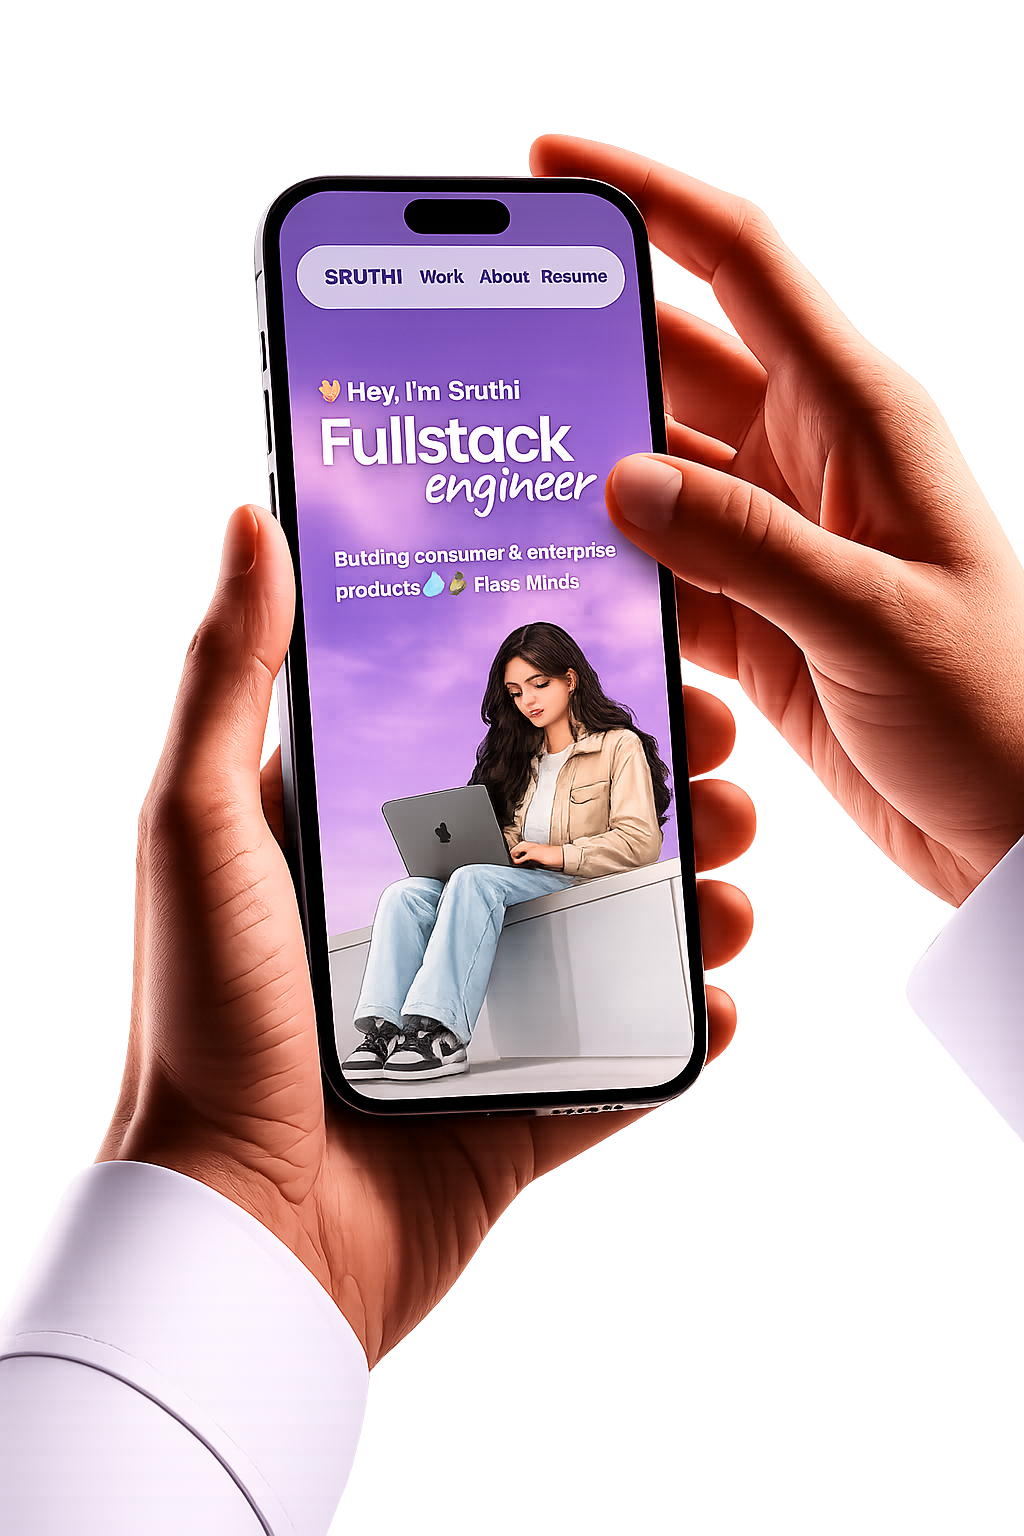
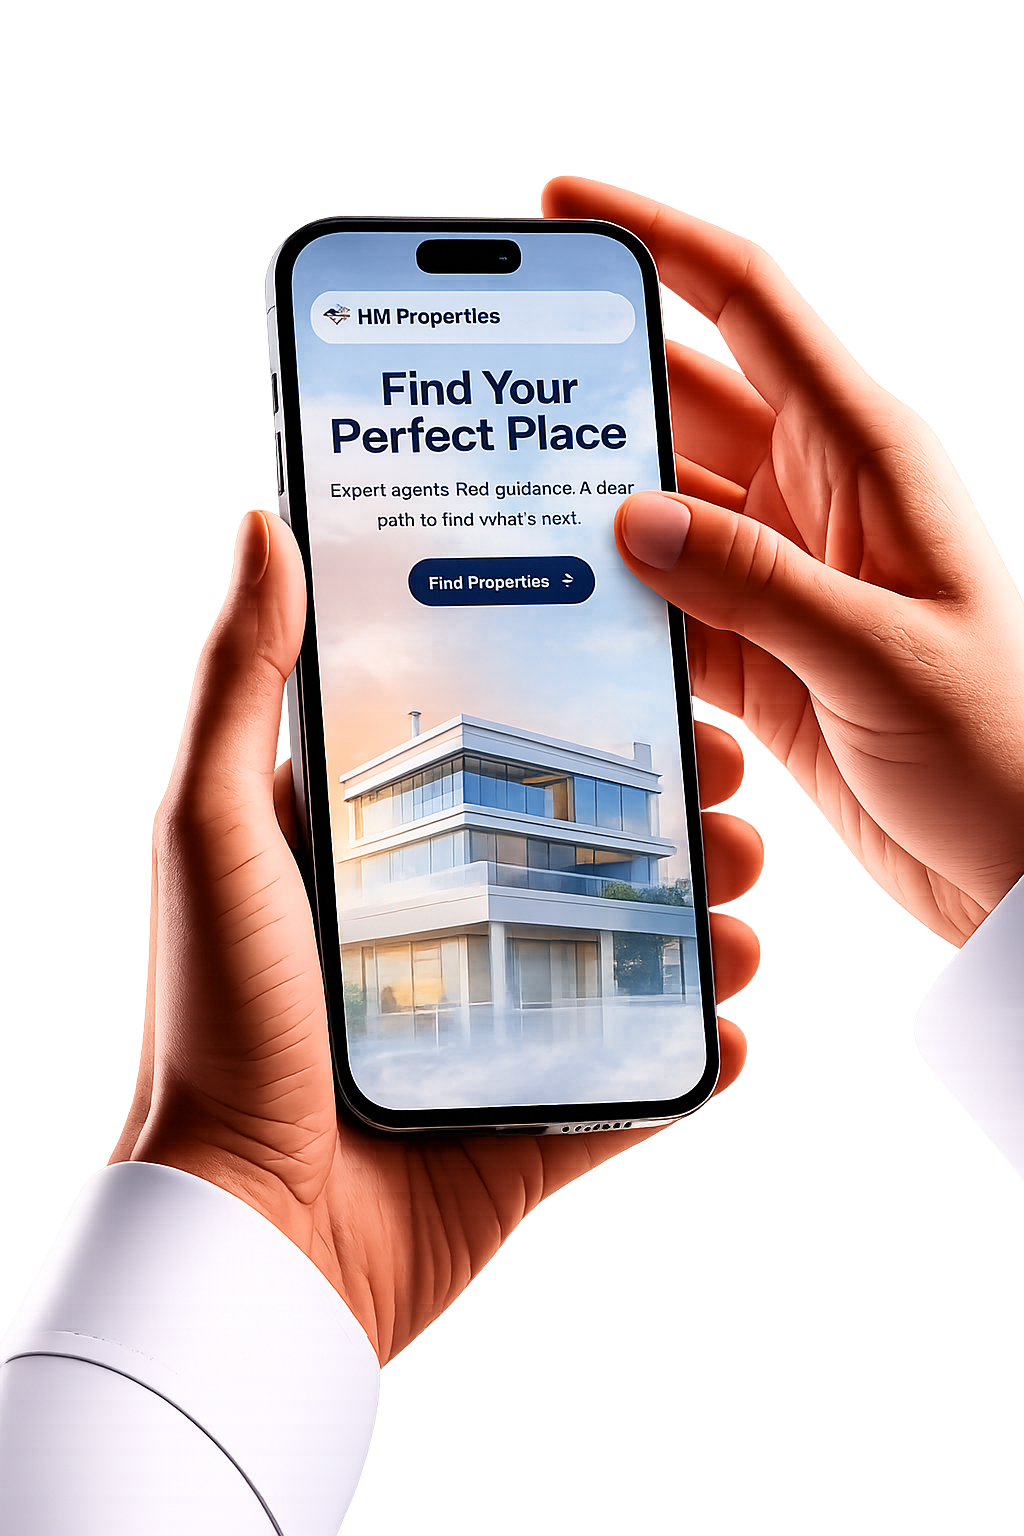
portfolio project update

diff --git a/src/components/projects/Projects.jsx b/src/components/projects/Projects.jsx
@@ -49,11 +49,11 @@ const PROJECTS = [
   {
     num: "05",
     year: "2026",
-    title: "Where design meets engineering",
-    tags: ["Personal Brand", "Next.js"],
-    desc: "A personal website showcasing projects, technical skills, and a design-driven approach to building thoughtful, scalable web experiences",
+    title: "Designed Around the Way You Live",
+    tags: ["Client Project", "Real Estate"],
+    desc:  "A modern real estate platform built for a property agency, helping users explore, buy, sell, and rent homes with ease. Fast, elegant!!!",
     image: "/project5.png",
-    link:"https://sruthi-portfolio-livid.vercel.app/",
+    link:"https://builder-website-lyart.vercel.app/",
     
   },
 ];
